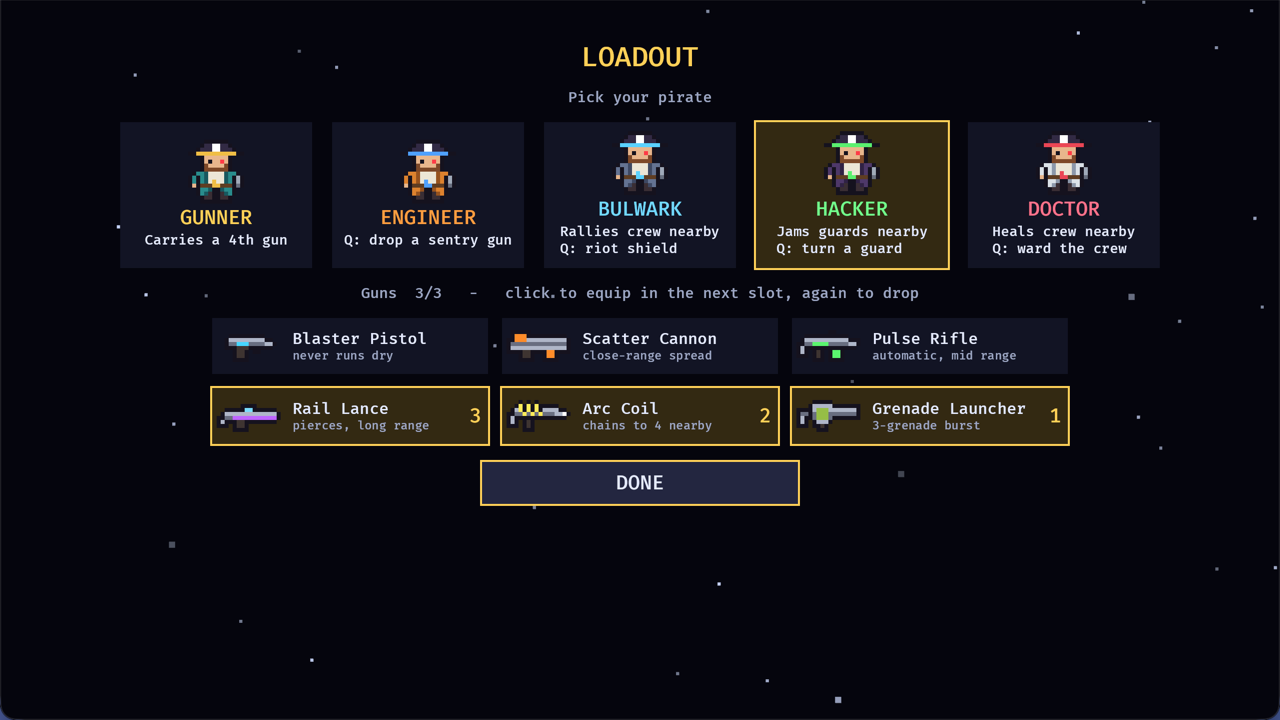
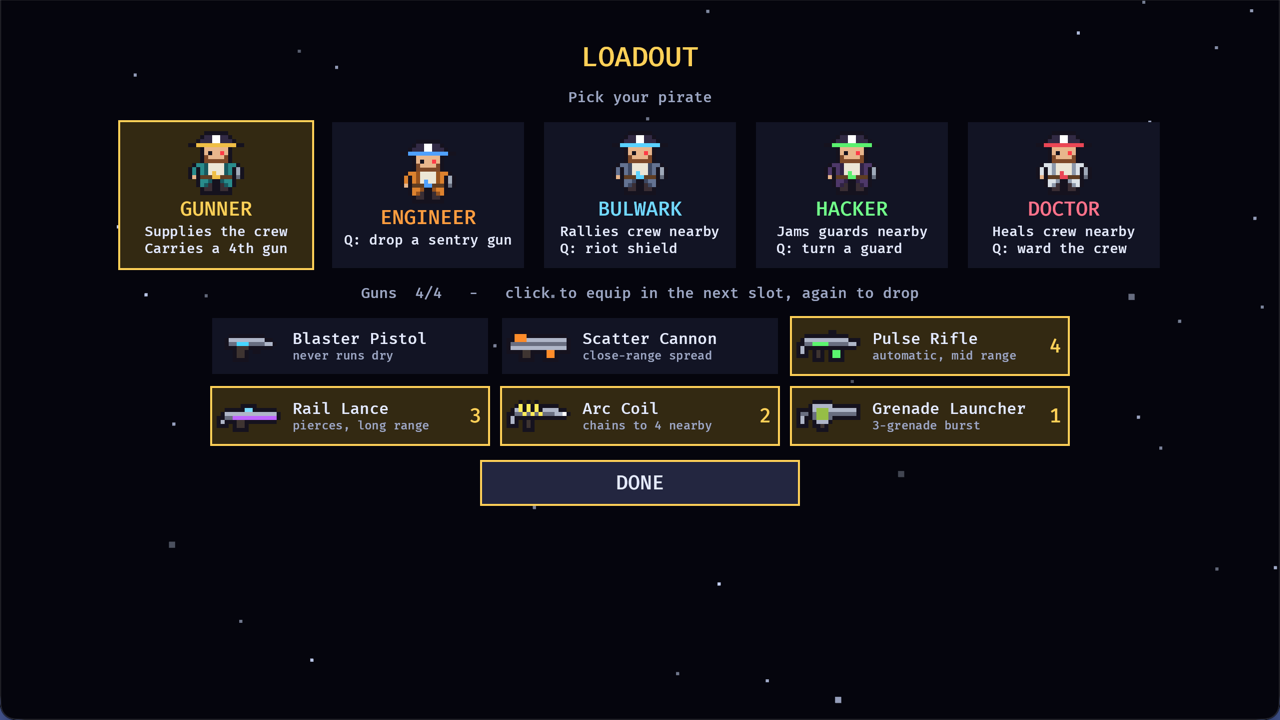
Added the gunner's supply passive

diff --git a/src/class.rs b/src/class.rs
@@ -1,5 +1,6 @@
 //! Pirate classes and loadouts. Each pirate picks a class and their guns in the
-//! menu; the host spawns them with it. The Gunner carries an extra gun; the
+//! menu; the host spawns them with it. The Gunner carries an extra gun and
+//! keeps the whole crew supplied, so their shots sometimes cost no ammo; the
 //! others have an ability on Q: the Engineer drops a sentry gun, the Bulwark
 //! carries a bulletproof riot shield, the Hacker turns a guard against the
 //! station and the Doctor wards the crew nearby against all harm. The Doctor
@@ -47,6 +48,10 @@ const SENTRY_PICKUP: f32 = 16.0;
 const SENTRY_REFUND: f32 = 0.75;
 /// Where the gun head turns, relative to the sentry's origin.
 const SENTRY_PIVOT: Vec2 = Vec2::new(0.0, 0.5);
+
+/// Odds a shot by any crewmate of a Gunner, wherever they are, costs no ammo.
+pub const SUPPLY_CHANCE: f32 = 0.3;
+const GUNNER_COLOR: Color = Color::srgb(1.0, 0.82, 0.35);
 
 /// How close a crewmate must be to the Bulwark to be rallied.
 pub const RALLY_RADIUS: f32 = 64.0;
@@ -175,7 +180,7 @@ impl PirateClass {
 
     pub fn perk(self) -> &'static str {
         match self {
-            Self::Gunner => "Carries a 4th gun",
+            Self::Gunner => "Supplies the crew\nCarries a 4th gun",
             Self::Engineer => "Q: drop a sentry gun",
             Self::Bulwark => "Rallies crew nearby\nQ: riot shield",
             Self::Hacker => "Jams guards nearby\nQ: turn a guard",
@@ -234,7 +239,7 @@ impl PirateClass {
 
     pub fn color(self) -> Color {
         match self {
-            Self::Gunner => Color::srgb(1.0, 0.82, 0.35),
+            Self::Gunner => GUNNER_COLOR,
             Self::Engineer => SENTRY_COLOR,
             Self::Bulwark => RIOT_COLOR,
             Self::Hacker => HACK_COLOR,
@@ -361,7 +366,9 @@ pub struct Boons {
     pub healing: bool,
     /// A Bulwark is close: their shots hit `RALLY_BOOST` harder.
     pub rallied: bool,
-    /// For a Doctor or Bulwark: how many crewmates their passive reaches.
+    /// A Gunner is in the crew: their shots cost no ammo `SUPPLY_CHANCE` of the time.
+    pub supplied: bool,
+    /// For a Doctor, Bulwark or Gunner: how many crewmates their passive reaches.
     pub aura: u8,
     /// For a Hacker: how many guards they're jamming.
     pub jamming: u8,
@@ -390,6 +397,9 @@ pub fn effects(class: PirateClass, health: &Health, boons: &Boons) -> Vec<(Strin
     }
     if boons.rallied {
         effects.push((format!("+{:.0}% DMG", RALLY_BOOST * 100.0), RIOT_COLOR));
+    }
+    if boons.supplied {
+        effects.push((format!("SUPPLIED {:.0}%", SUPPLY_CHANCE * 100.0), GUNNER_COLOR));
     }
     if boons.empowered {
         effects.push((format!("WAR CRY +{:.0}%", (WAR_CRY_POWER - 1.0) * 100.0), EMPOWERED_COLOR));
@@ -638,8 +648,9 @@ fn use_abilities(
     }
 }
 
-/// Each Doctor patches up the crewmates around them, a little at a time, and
-/// each Bulwark rallies them to hit harder. Neither helps themselves: their
+/// Each Doctor patches up the crewmates around them, a little at a time, each
+/// Bulwark rallies them to hit harder, and a Gunner keeps the whole crew, near
+/// or far, supplied, so their shots sometimes cost no ammo. None helps themselves: their
 /// passives need a crew. Records who's getting what in everyone's `Boons`.
 fn support_crew(
     time: Res<Time>,
@@ -648,7 +659,9 @@ fn support_crew(
 ) {
     let supporters: Vec<(u64, PirateClass, Vec2)> = players
         .iter()
-        .filter(|(p, h, ..)| matches!(p.class, PirateClass::Doctor | PirateClass::Bulwark) && can_act(p, h))
+        .filter(|(p, h, ..)| {
+            matches!(p.class, PirateClass::Doctor | PirateClass::Bulwark | PirateClass::Gunner) && can_act(p, h)
+        })
         .map(|(p, _, t, _)| (p.owner, p.class, t.translation.truncate()))
         .collect();
     // Who each supporter reaches, by index into `supporters`.
@@ -658,16 +671,26 @@ fn support_crew(
         let pos = transform.translation.truncate();
         let mut medics = 0;
         let mut rallied = false;
+        let mut supplied = false;
         if can_act(player, &health) {
             for (i, &(owner, class, at)) in supporters.iter().enumerate() {
-                let radius = if class == PirateClass::Doctor { HEAL_RADIUS } else { RALLY_RADIUS };
-                if owner == player.owner || at.distance(pos) > radius || !grid.line_of_sight(at, pos) {
+                if owner == player.owner {
+                    continue;
+                }
+                let radius = match class {
+                    PirateClass::Doctor => Some(HEAL_RADIUS),
+                    PirateClass::Bulwark => Some(RALLY_RADIUS),
+                    // The Gunner's reaches everyone.
+                    _ => None,
+                };
+                if radius.is_some_and(|r| at.distance(pos) > r || !grid.line_of_sight(at, pos)) {
                     continue;
                 }
                 reached[i] += 1;
                 match class {
                     PirateClass::Doctor => medics += 1,
-                    _ => rallied = true,
+                    PirateClass::Bulwark => rallied = true,
+                    _ => supplied = true,
                 }
             }
         }
@@ -676,7 +699,7 @@ fn support_crew(
         if healing {
             health.heal(HEAL_RATE * medics as f32 * dt);
         }
-        let current = Boons { healing, rallied, ..*boons };
+        let current = Boons { healing, rallied, supplied, ..*boons };
         boons.set_if_neq(current);
     }
     for (player, _, _, mut boons) in &mut players {

diff --git a/src/guns.rs b/src/guns.rs
@@ -1,7 +1,7 @@
 use bevy::prelude::*;
 use serde::{Deserialize, Serialize};
 
-use crate::class::{Boons, RIOT_COLOR, RiotShield};
+use crate::class::{Boons, RIOT_COLOR, RiotShield, SUPPLY_CHANCE};
 use crate::combat::{
     FxKind, Grenade, Health, Hurtbox, Knockback, Noise, Projectile, ProjectileLook, Team, fx, spawn_grenade,
     spawn_projectile,
@@ -581,7 +581,9 @@ fn fire(
         }
 
         let current = arsenal.current;
-        if !infinite {
+        // A Gunner in the crew sometimes spares the round.
+        let spared = boons.supplied && rng.unit() < SUPPLY_CHANCE;
+        if !infinite && !spared {
             arsenal.guns[current].ammo -= 1;
         }
         arsenal.shots = arsenal.shots.wrapping_add(1);

diff --git a/README.md b/README.md
@@ -41,8 +41,8 @@ can hand to friends.
 Pick a class and your guns under **LOADOUT** in the main menu before a raid.
 Every pirate carries 3 guns, in the order you pick them.
 
-The Doctor's, Bulwark's and Hacker's passives show as chips under your bars and on each
-crewmate's card, alongside a Doctor's ward.
+Class passives show as chips under your bars and on each crewmate's card,
+alongside a Doctor's ward.
 
 Online, a crew holds at most one of each class, so up to 5 pirates. Hosting
 opens a lobby where everyone picks a free class and their guns, then the host
@@ -51,7 +51,7 @@ mid-run picks from the classes still free.
 
 | Class | Ability |
 | --- | --- |
-| Gunner | Carries a 4th gun |
+| Gunner | Every crewmate, wherever they are, has a 30% chance for a shot not to use up ammo. Carries a 4th gun |
 | Engineer | Q drops a sentry gun that shoots guards for 15 s (25 s cooldown). Guards shoot back at it. Q next to it picks it back up, taking time off the cooldown for the time it had left |
 | Bulwark | Crewmates within reach deal 25% more damage. Q raises or lowers a riot shield you carry in front of you, turning as you aim. No shot gets through, from either side, and you can't fire while holding it. It drains while up (10 s from full) and recharges while down (22 s from empty) |
 | Hacker | Guards within reach are jammed: 35% of their shots go wide and their blows whiff. Q turns the guard nearest your crosshair to the crew's side for 20 s (30 s cooldown) |
